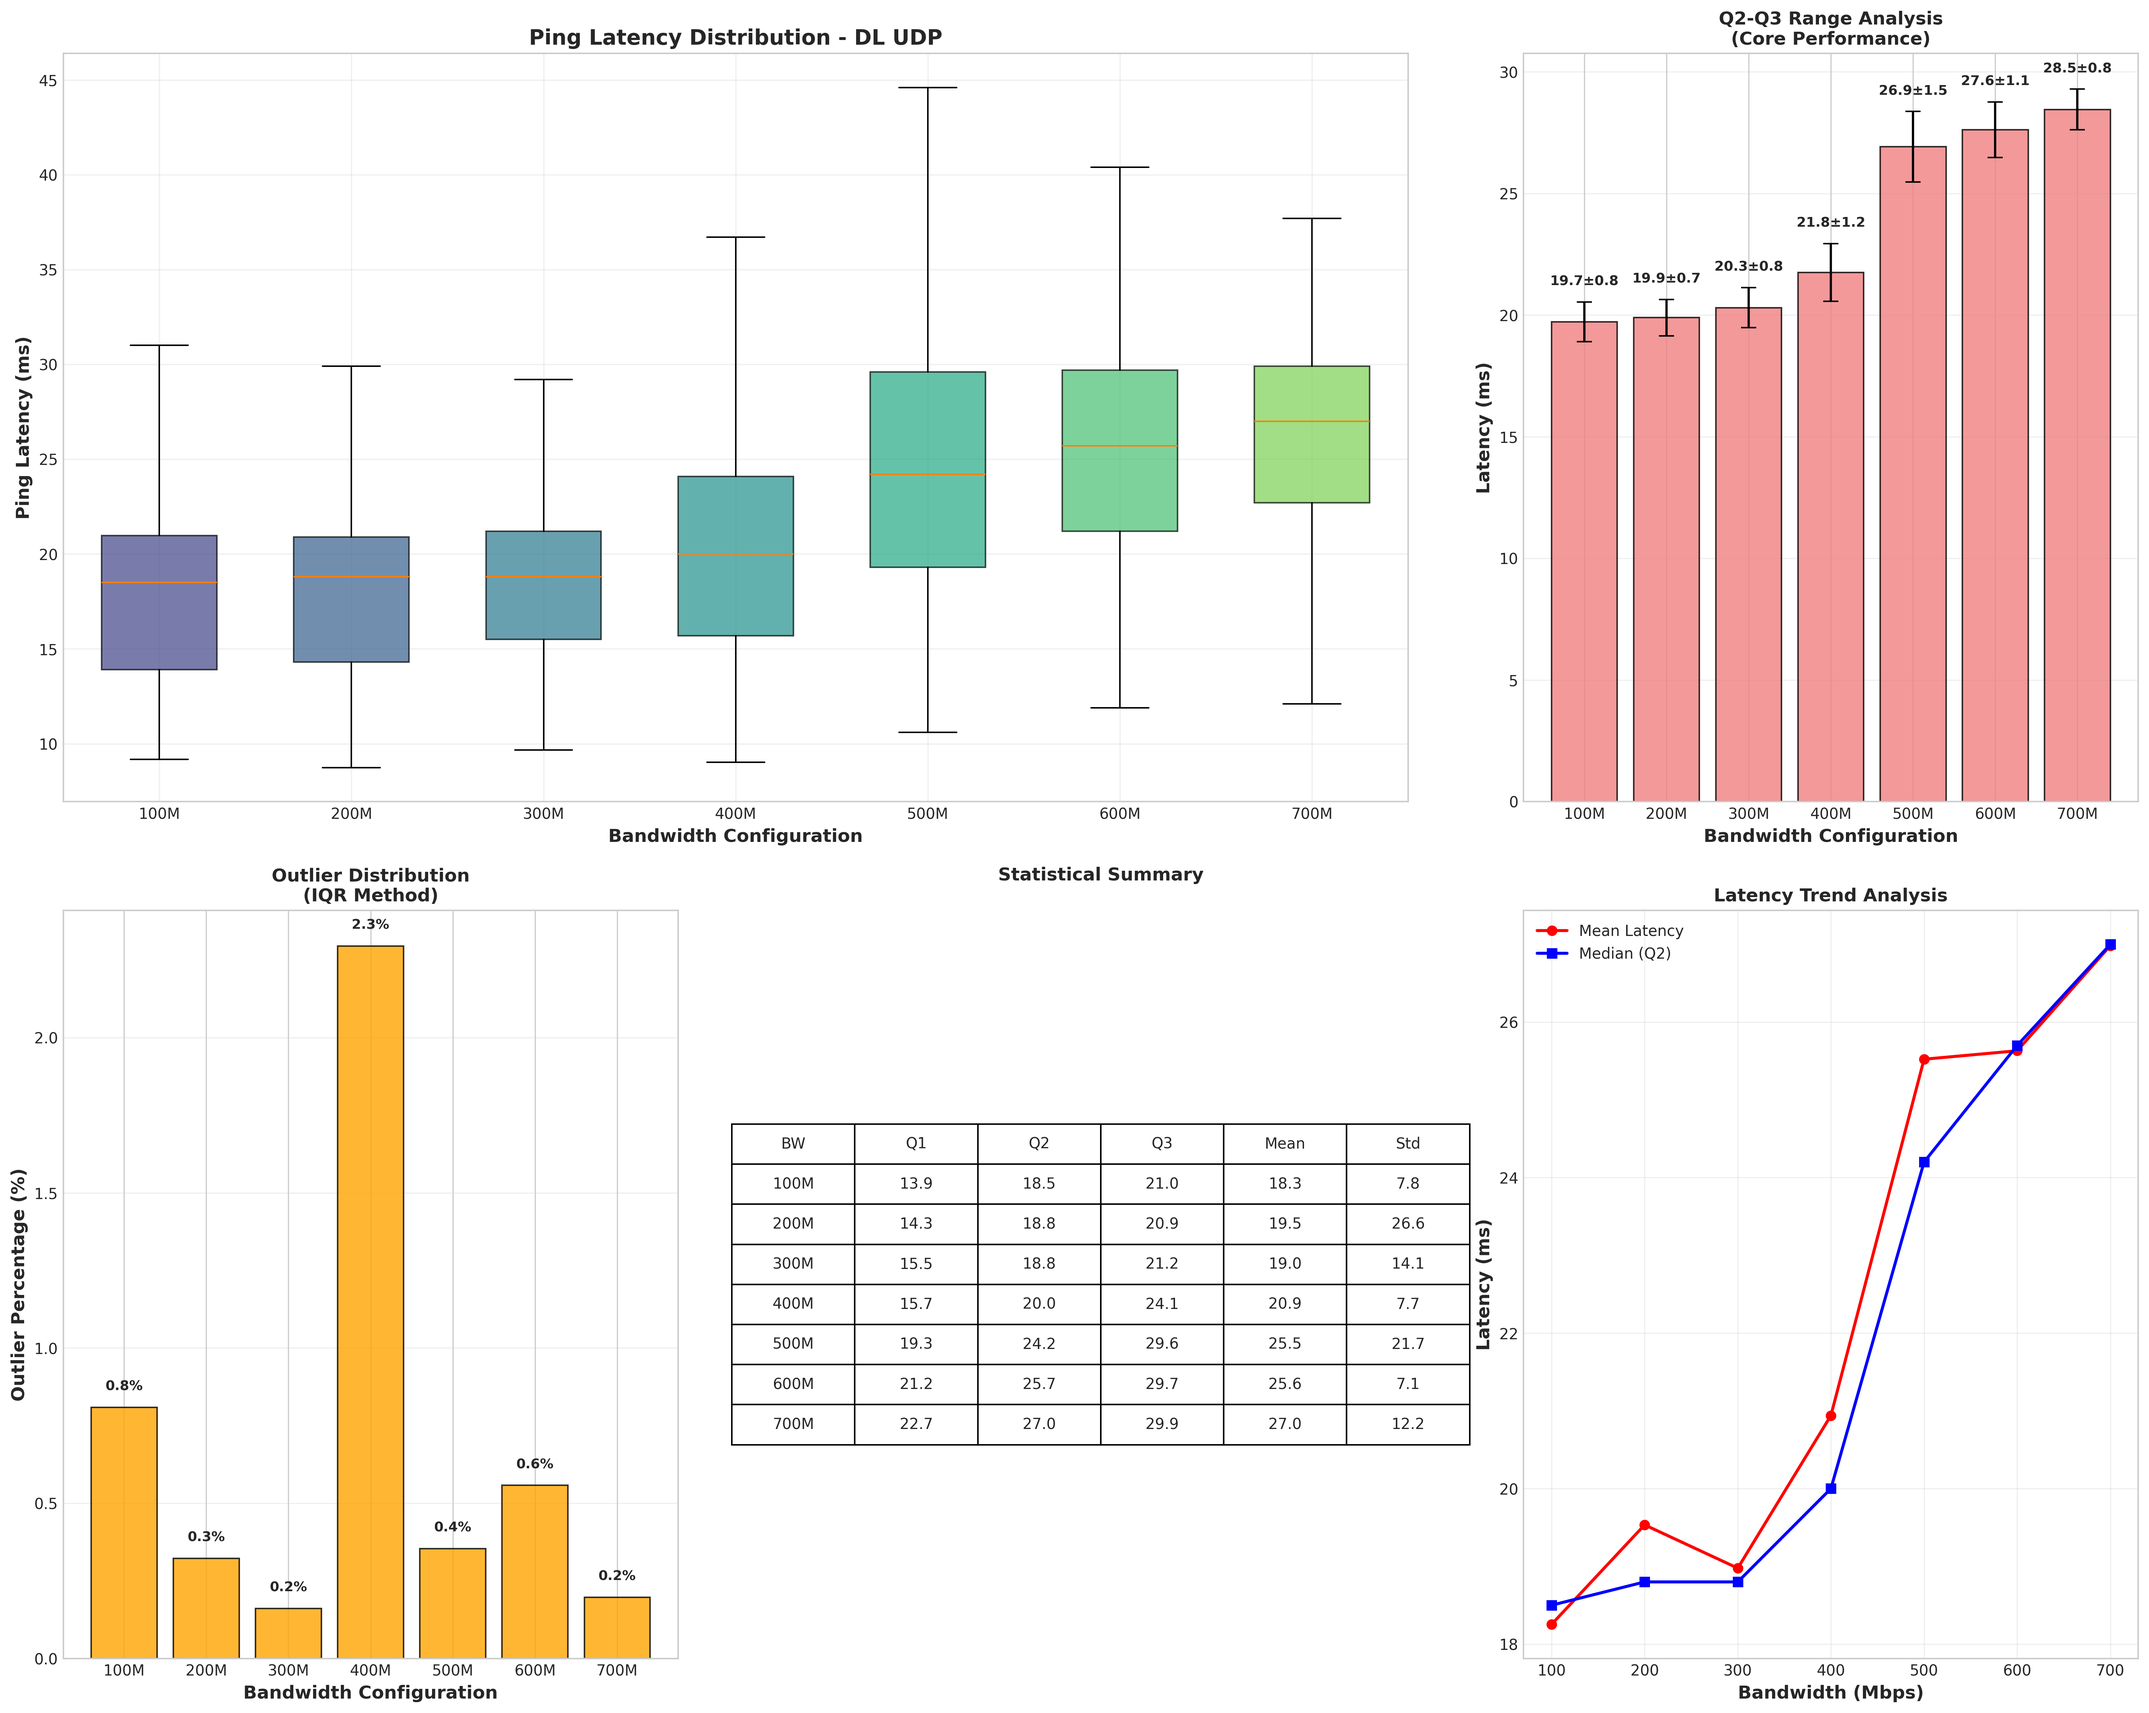
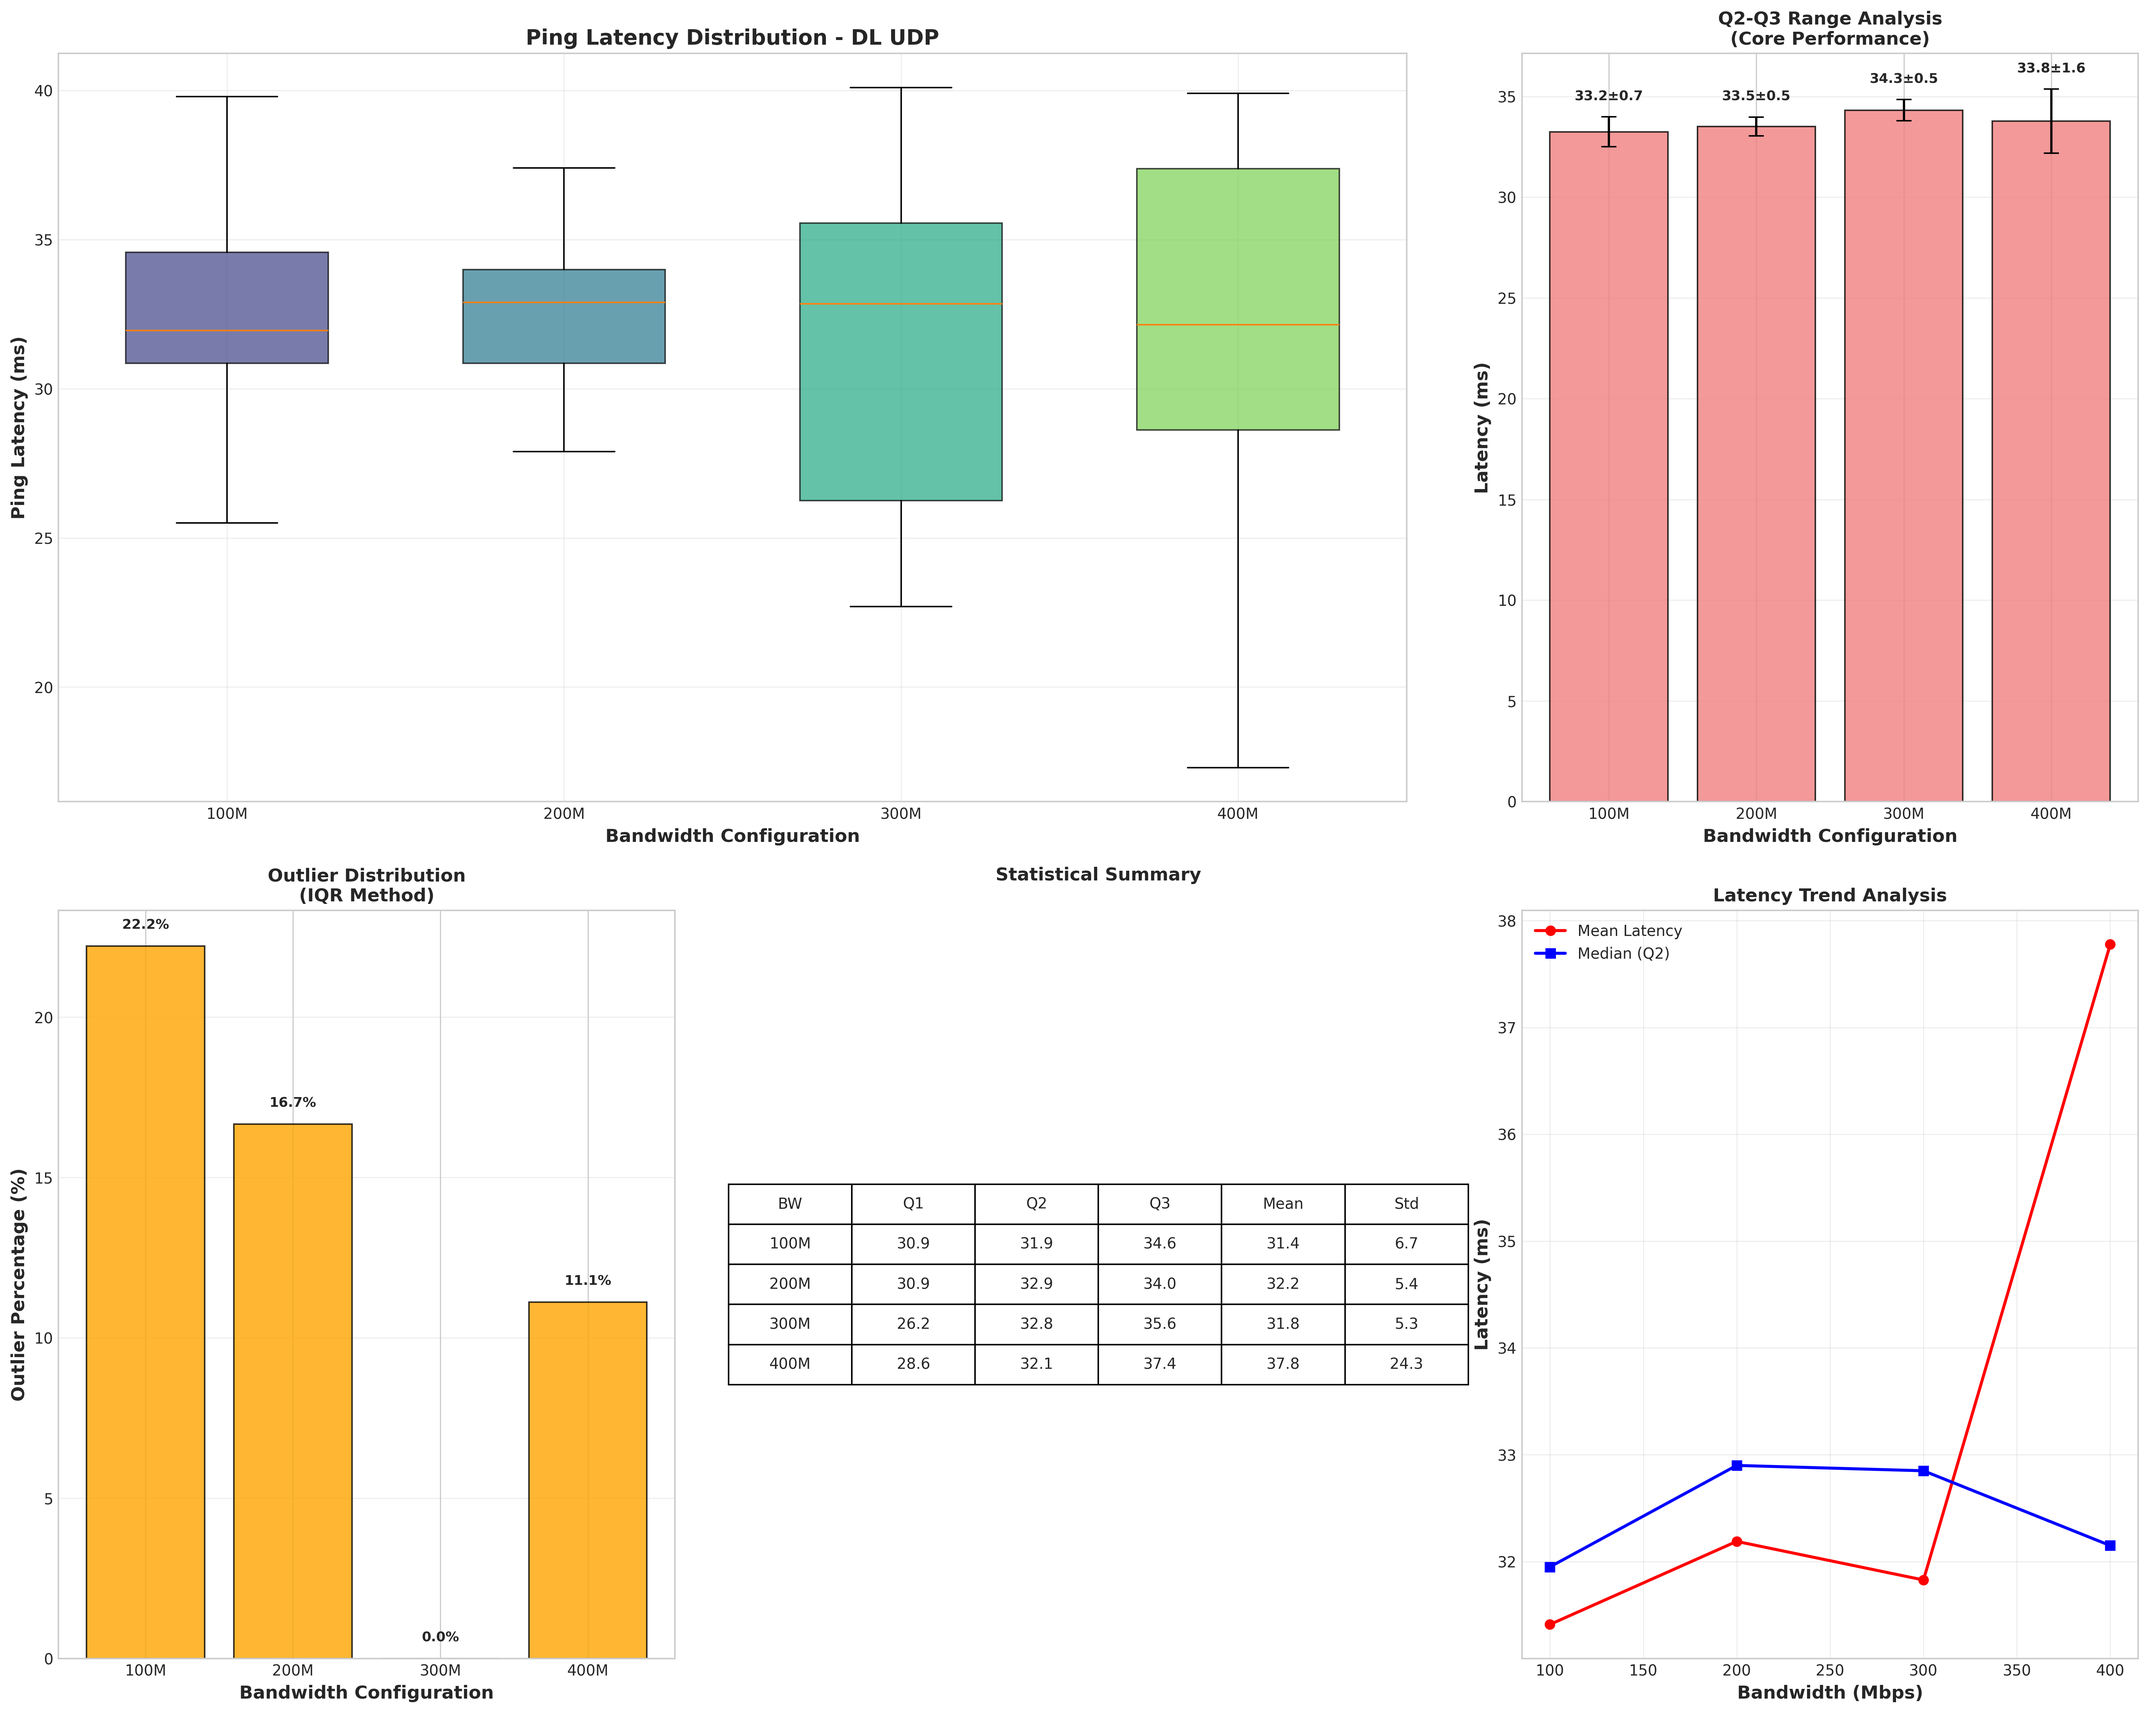
20250528-nFAPI(100-400M)

diff --git a/tools/clean_iperf_json.py b/tools/clean_iperf_json.py
@@ -2,7 +2,7 @@ import os
 import glob
 import json
 
-DATA_DIR = "/home/ming/E2E-network-measurement/data/20250527-MONO(100-800M)"
+DATA_DIR = "/home/ming/E2E-network-measurement/data/20250528-nFAPI(100-400M)"
 
 def is_error_block(obj):
     return (
